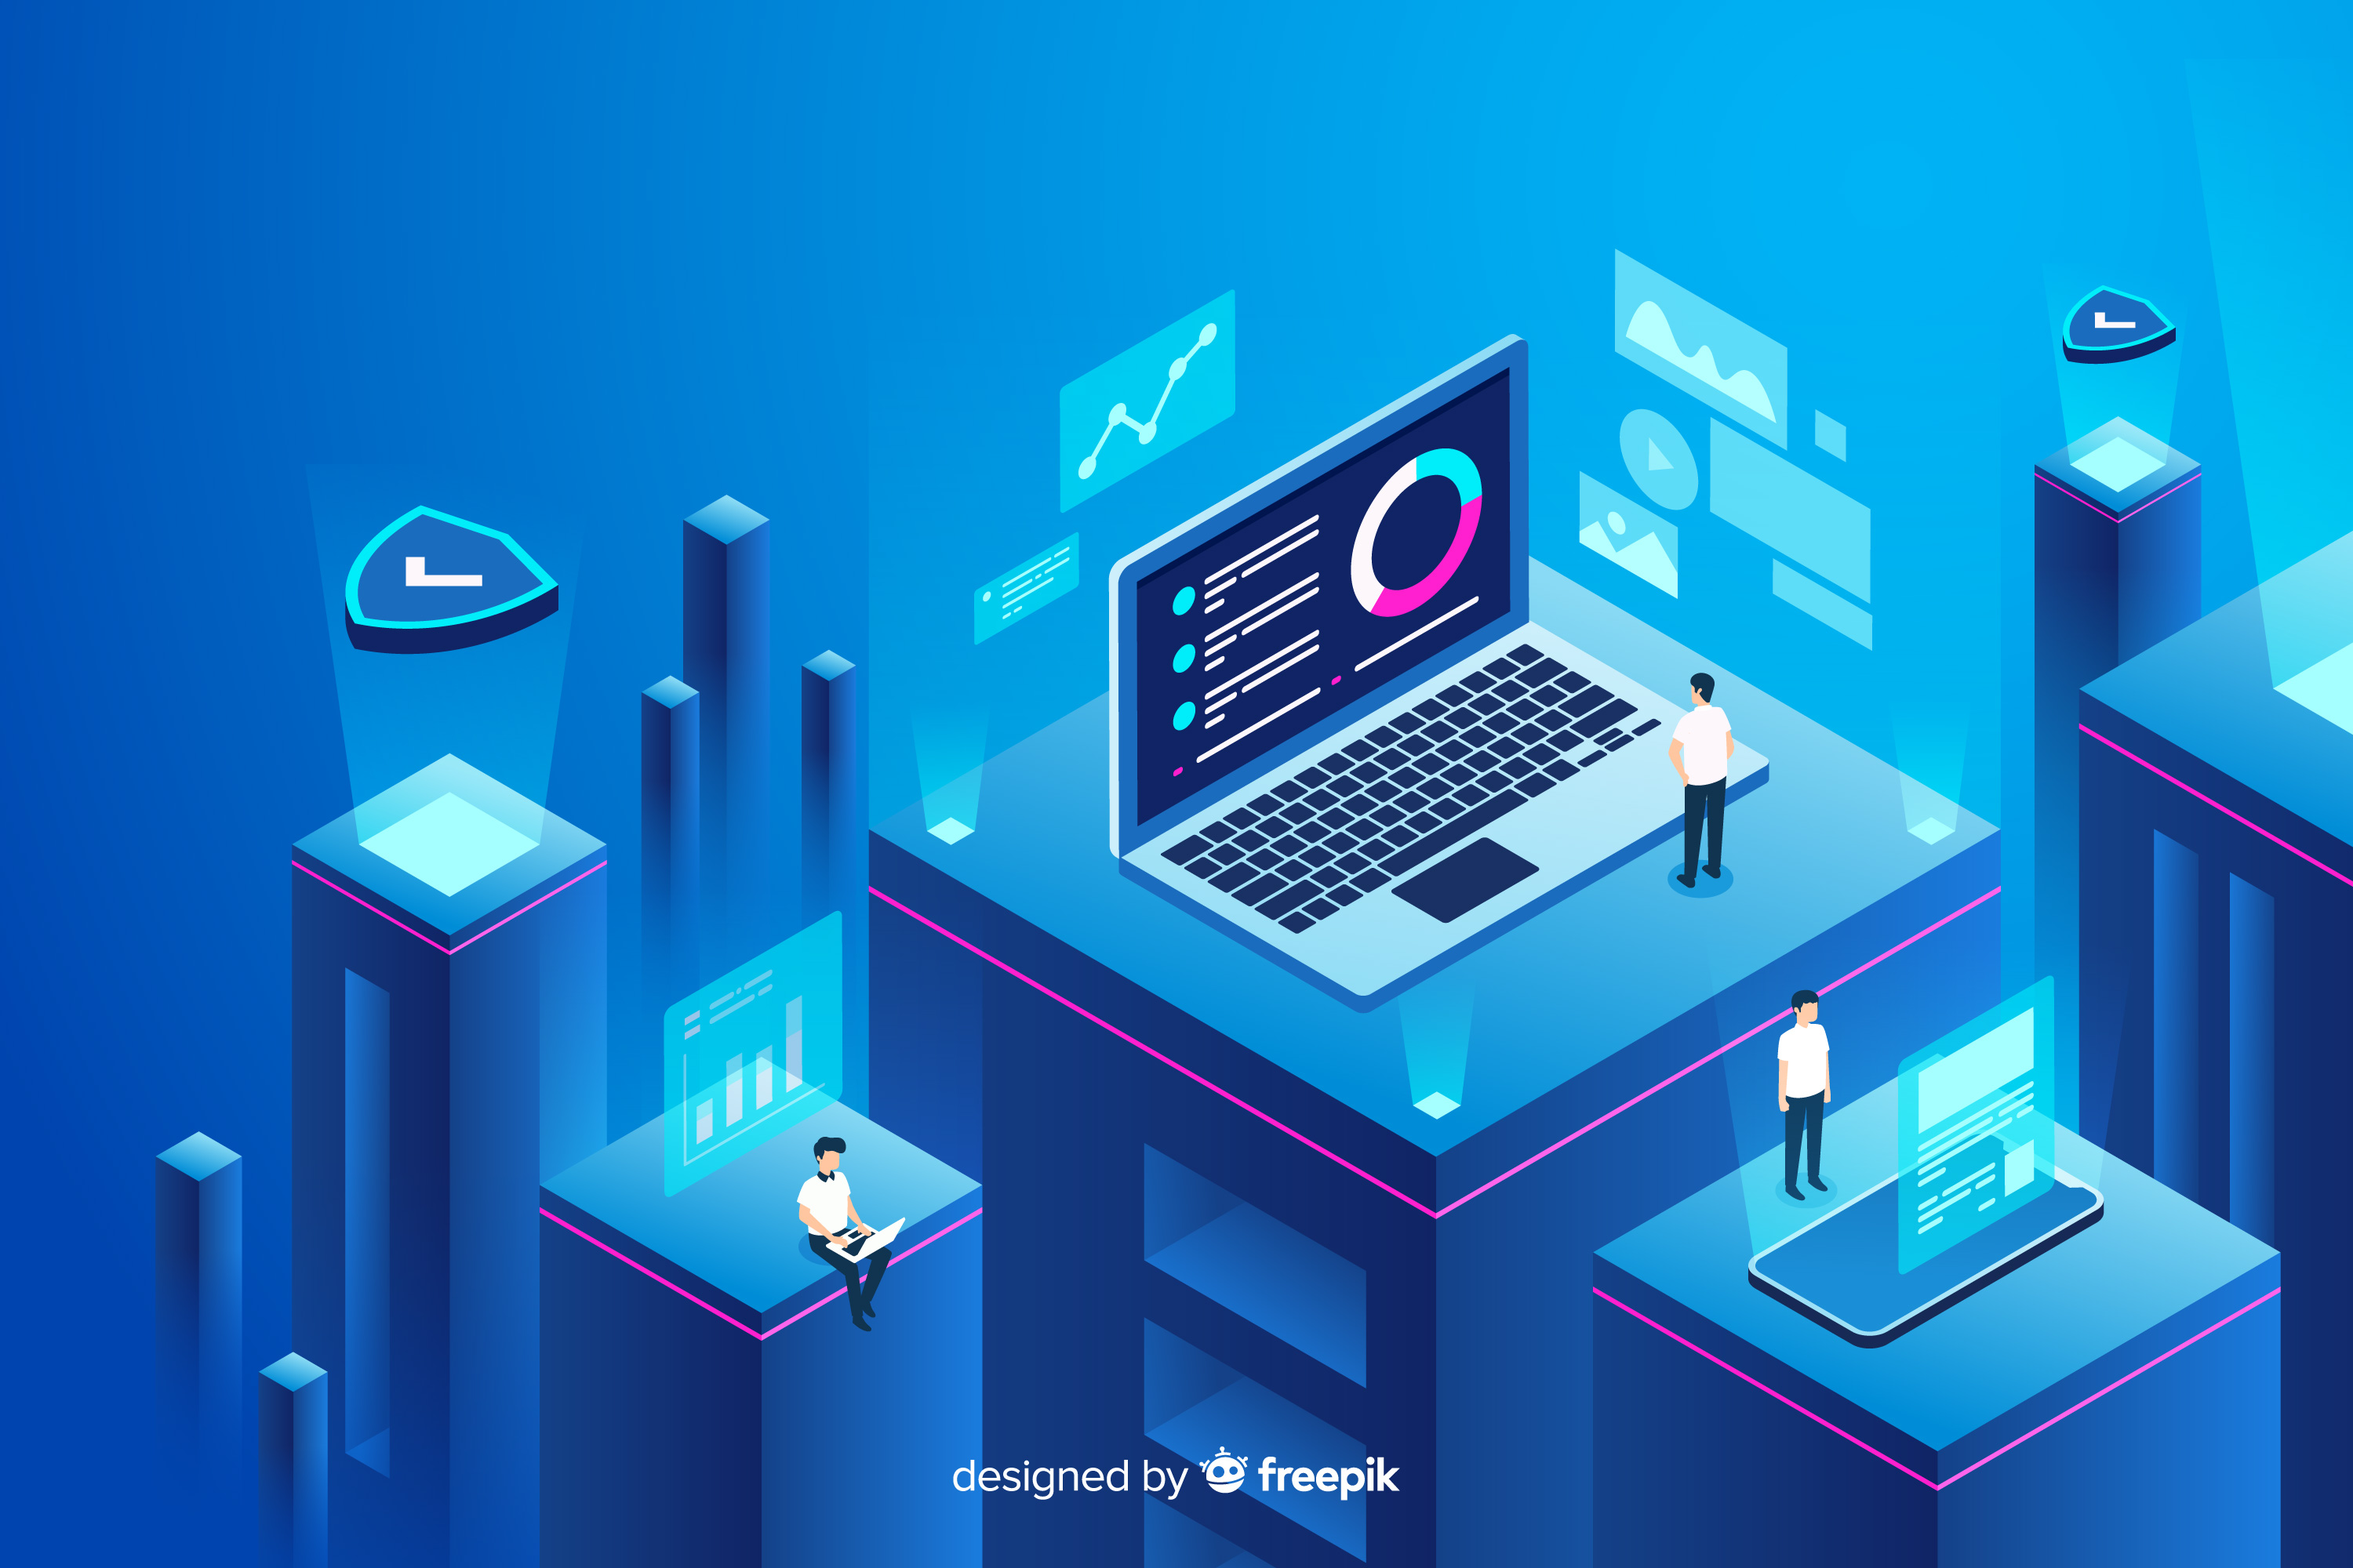
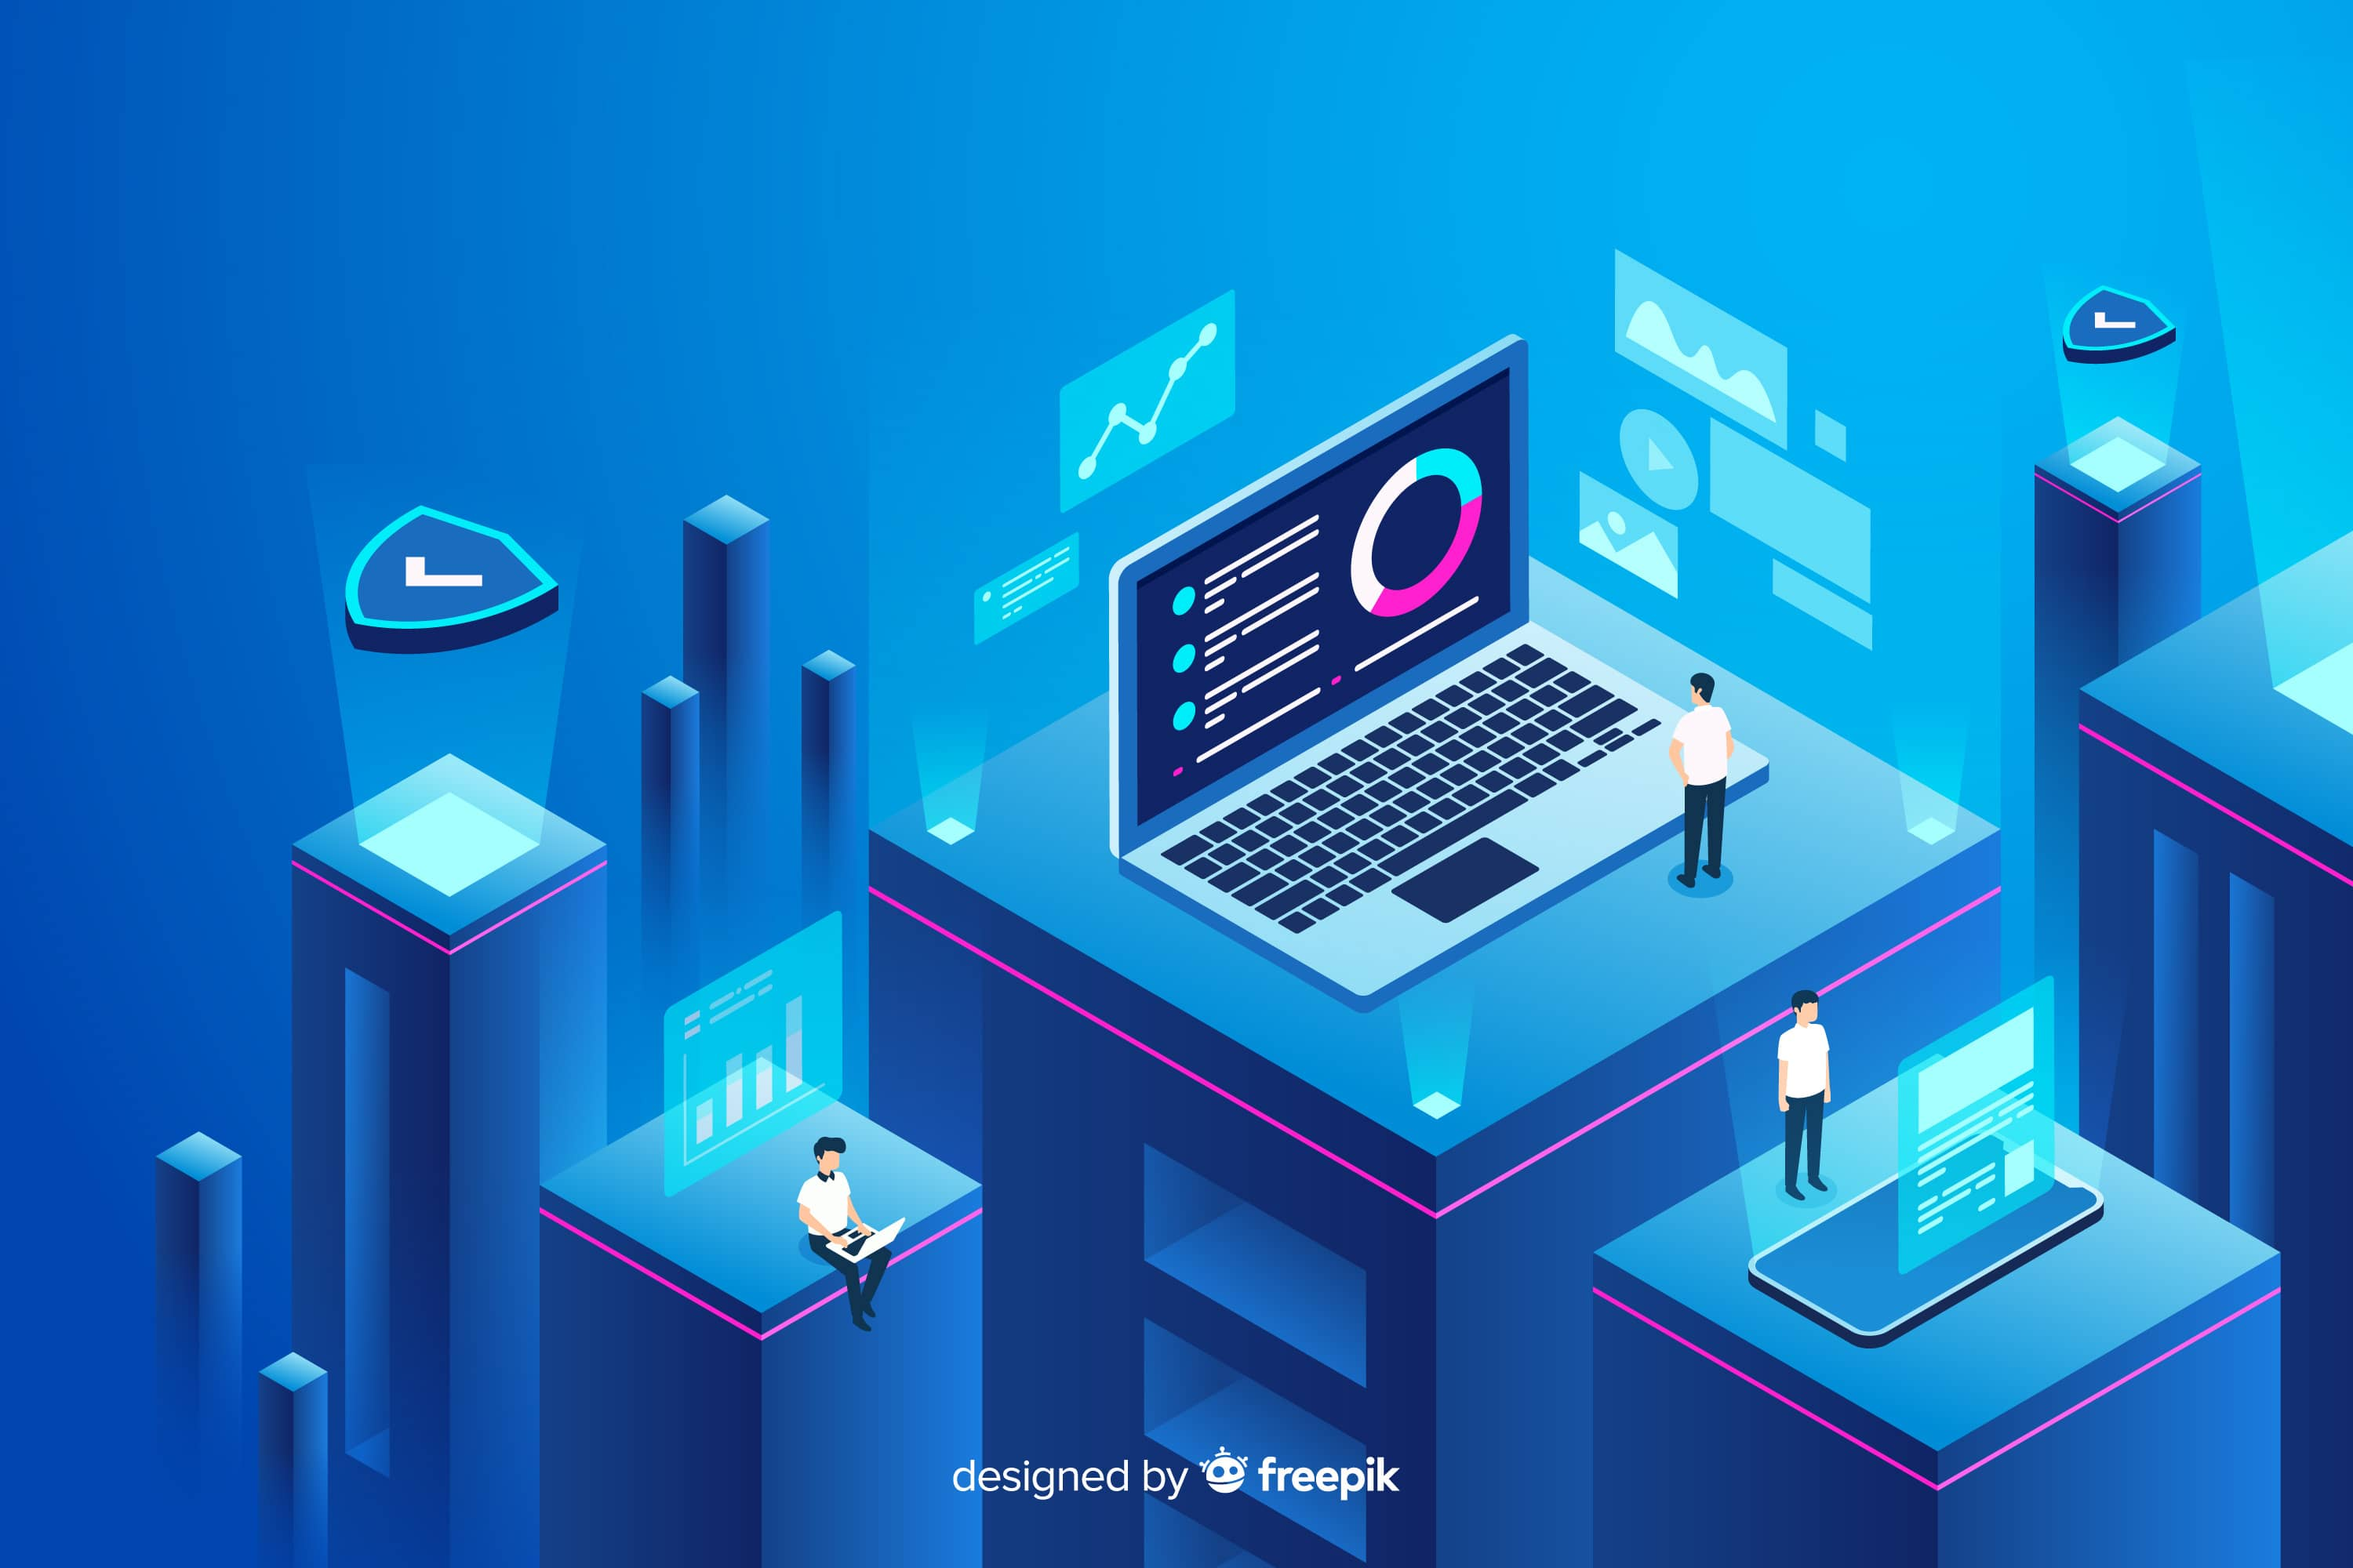
210803 Pricing page 구현

Changed region(s): [[0.496, 0.93, 0.558, 0.961], [0.341, 0.775, 0.403, 0.806], [0.403, 0.93, 0.434, 0.961]]

diff --git a/src/views/EN/PricingView.vue b/src/views/EN/PricingView.vue
@@ -1,21 +1,151 @@
 <template>
-  <div class="pricing-wrapper"></div>
+  <section class="section-pricing">
+    <div class="pricing-wrapper">
+      <div class="pricing-title">Pricing</div>
+      <div class="pricing-subtitle">Subscription Plans</div>
+      <div class="pricing-content-wrapper">
+        <div class="pricing-content">
+          <h1 class="content-title">BASIC</h1>
+          <div class="content-pricing">Coming Soon</div>
+          <ul class="content-detail">
+            <li>
+              Parcel, Zoning code, Demographic data with comparing
+              functionbetween different area.
+            </li>
+            <li>
+              2D map layers including zoning, building height, opportunity zone
+              etc.
+            </li>
+            <li>
+              AI Engine providing 1000+ alternatives Architectural Drawing with
+              detailed design & 3D modeling for feasibility study for each
+              development project
+            </li>
+            <li>
+              CAD File / solution analysis excel file (including project
+              summary, rent analysis, cash flow analysis) download.
+            </li>
+          </ul>
+        </div>
+        <div class="pricing-content">
+          <h1 class="content-title">PREMIUM</h1>
+          <div class="content-pricing">Coming Soon</div>
+          <ul class="content-detail">
+            <li>Everything in basic plan</li>
+            <li>
+              Zenerate™ AI Engine providing 50,000+ alternatives Architectural
+              Drawing with detailed design & 3D modeling for feasibility study
+              for each development project
+            </li>
+            <li>Parking and Retail layout</li>
+            <li>
+              Zenerate™ AI Engine predicting rent price based on data for
+              residential units.
+            </li>
+          </ul>
+        </div>
+        <div class="pricing-content">
+          <h1 class="content-title">CONSULTING</h1>
+          <div
+            class="content-pricing hover-pointer"
+            @click="router.push(`/contact`)"
+          >
+            Contact Us
+          </div>
+          <ul class="content-detail">
+            <li>Everything in premium plan</li>
+            <li>
+              Customize service depending on customer's requirement including
+              design details, construction limitation, cash flow
+            </li>
+          </ul>
+        </div>
+      </div>
+    </div>
+  </section>
 </template>
 <script lang="ts" setup>
-import { reactive, ref, onMounted, computed } from 'vue'
+import { onMounted, computed } from 'vue'
 import Store from '/Store/index'
-import ApiService from '/Services/api'
-import Validation from '/Utils/Validation'
-import { useRoute } from 'vue-router'
+
+import { useRouter } from 'vue-router'
 
 const fullpage = computed(() => Store.state.root.FullPage)
+const router = useRouter()
 onMounted(() => {
   fullpage.value.destroy()
-  const route = useRoute()
 })
 </script>
-<style lang="scss">
-.pricing-wrapper {
-  height: 800px;
+<style lang="scss" scoped>
+.section-pricing {
+  background-image: url('/en/img/pricing_placeholder.webp');
+  background-size: cover;
+  background-position: center;
+
+  height: 100vh;
+  min-height: 100%;
+  &::before {
+    content: '';
+    opacity: 0.6;
+    position: absolute;
+    top: 0px;
+    left: 0px;
+    right: 0px;
+    bottom: 0px;
+    background-color: #ffffff;
+  }
+  .pricing-wrapper {
+    height: 100%;
+    width: 1600px;
+    position: relative;
+    margin: auto;
+    padding: 100px 96px;
+    .pricing-title {
+      padding-top: 70px;
+      text-align: center;
+      @include bold(16);
+      line-height: 40px;
+      color: $main;
+    }
+    .pricing-subtitle {
+      text-align: center;
+      @include bold(26);
+      line-height: 40px;
+    }
+    .pricing-content-wrapper {
+      padding-top: 48px;
+      @include flex($justify: space-around);
+      .pricing-content {
+        width: 420px;
+        height: 500px;
+        box-shadow: 1px 1px 10px 0px rgba($black-1, 0.2);
+        border-radius: 20px;
+        background-color: white;
+        &:hover {
+          box-shadow: 0 0 0 3px $main;
+        }
+        .content-title {
+          text-align: center;
+          @include bold(18);
+          margin: 24px 0;
+        }
+        .content-pricing {
+          text-align: center;
+          margin-bottom: 12px;
+          color: $main;
+          @include bold(32);
+        }
+        .content-detail {
+          padding: 0px 30px;
+          li {
+            text-align: center;
+            padding: 20px 0px;
+            @include medium(14);
+            border-bottom: 1px solid rgba($black-1, 0.2);
+          }
+        }
+      }
+    }
+  }
 }
 </style>

diff --git a/src/views/EN/CareerView.vue b/src/views/EN/CareerView.vue
@@ -6,7 +6,7 @@
           <p class="main-title">Career</p>
           <div class="main-sub-title">
             <span>Your future with</span>
-            <img src="" data-src="/img/logo.png" alt="" />
+            <img src="" data-src="/img/logo.webp" alt="" />
           </div>
           <p class="main-content">
             Join Zenerate as we innovate architectural planning and improve
@@ -38,7 +38,7 @@
           <p class="hero-title">COMPANY CULTURE AND VALUES</p>
           <div class="hero-sub-title">
             <span>Your life with</span>
-            <img src="" data-src="/img/logo.png" alt="" />
+            <img src="" data-src="/img/logo.webp" alt="" />
           </div>
           <p class="hero-content">
             At Zenerate, placeholder (our unique group of professionals come
@@ -79,13 +79,18 @@
           </div>
           <div class="list-wrapper">
             <div class="list-image">
-              <img src="" data-src="/img/career_img.jpg" alt="" />
+              <img src="" data-src='/en/img/career_content.webp' alt="" />
             </div>
             <div class="list-items">
               <div class="career-list">
                 <div class="career-item">
                   <div class="item-date">2021. 00. 00 ~ 2021. 00. 00</div>
-                  <div class="item-title hover-pointer" @click="[router.push(`/career/strategic-account-executive`) ]">
+                  <div
+                    class="item-title hover-pointer"
+                    @click="
+                      ;[router.push(`/career/strategic-account-executive`)]
+                    "
+                  >
                     STRATEGIC ACCOUNT EXECUTIVE
                     <div class="arrow-right"></div>
                   </div>
@@ -94,7 +99,9 @@
                   <div class="item-date">2021. 00. 00 ~ 2021. 00. 00</div>
                   <div
                     class="item-title hover-pointer"
-                    @click="[router.push(`/career/business-development-manager`) ]"
+                    @click="
+                      ;[router.push(`/career/business-development-manager`)]
+                    "
                   >
                     BUSINESS DEVELOPMENT MANAGER
                     <div class="arrow-right"></div>
@@ -104,7 +111,13 @@
                   <div class="item-date">2021. 00. 00 ~ 2021. 00. 00</div>
                   <div
                     class="item-title hover-pointer"
-                    @click="[router.push(`/career/business-development-marketing-intern`) ]"
+                    @click="
+                      ;[
+                        router.push(
+                          `/career/business-development-marketing-intern`
+                        ),
+                      ]
+                    "
                   >
                     BUSINESS DEVELOPMENT & MARKETING INTERN
                     <div class="arrow-right"></div>
@@ -116,8 +129,8 @@
         </div>
       </div>
       <div class="section section-footer fp-auto-height">
-      <Footer></Footer>
-    </div>
+        <Footer></Footer>
+      </div>
     </div>
   </section>
 </template>
@@ -146,8 +159,19 @@ onMounted(() => {
 </script>
 <style lang="scss" scoped>
 .section-main {
-  background-image: url('/en/img/career_main.jpg');
+  background-image: url('/en/img/career_main.webp');
   background-size: cover;
+
+  &::before {
+    content: '';
+    opacity: 0.5;
+    position: absolute;
+    top: 0px;
+    left: 0px;
+    right: 0px;
+    bottom: 0px;
+    background-color: #000;
+  }
 
   .main-wrapper {
     // height: 100%;
@@ -196,9 +220,18 @@ onMounted(() => {
   }
 }
 .section-hero {
-  background-image: url('/en/img/career_hero.jpg');
+  background-image: url('/en/img/career_hero.webp');
   background-size: cover;
-
+  &::before {
+    content: '';
+    opacity: 0.5;
+    position: absolute;
+    top: 0px;
+    left: 0px;
+    right: 0px;
+    bottom: 0px;
+    background-color: #000;
+  }
   .hero-wrapper {
     height: 750px;
     // height: calc(100% - 100px);
@@ -318,11 +351,10 @@ onMounted(() => {
         }
       }
     }
-    
   }
-  &.active  .content-list-wrapper {
-      height: 100%;
-      padding-top: 150px;
-    }
+  &.active .content-list-wrapper {
+    height: 100%;
+    padding-top: 150px;
+  }
 }
 </style>

diff --git a/src/components/EN/CareerContent.vue b/src/components/EN/CareerContent.vue
@@ -1,7 +1,10 @@
 <template>
   <div class="career-content-wrapper">
     <!-- STRATEGIC ACCOUNT EXECUTIVE -->
-    <div class="career-content" v-if="$route.params.id==='strategic-account-executive'">
+    <div
+      class="career-content"
+      v-if="$route.params.id === 'strategic-account-executive'"
+    >
       <div class="career-content-title">
         <span>STRATEGIC ACCOUNT EXECUTIVE</span>
         <!-- <button @click=";[(nowId = -1), onSelect(nowId)]">지원하기</button> -->
@@ -98,10 +101,7 @@
         </ul>
       </div>
 
-      <button
-        class="back-button"
-        @click=";[router.push('/career')]"
-      >
+      <button class="back-button" @click=";[router.push('/career')]">
         <span>BACK</span>
         <svg
           width="122"
@@ -120,7 +120,10 @@
       </button>
     </div>
     <!-- BUSINESS DEVELOPMENT MANAGER -->
-    <div class="career-content" v-if="$route.params.id==='business-development-manager'">
+    <div
+      class="career-content"
+      v-if="$route.params.id === 'business-development-manager'"
+    >
       <div class="career-content-title">
         <span>BUSINESS DEVELOPMENT MANAGER</span>
         <!-- <button @click=";[(nowId = -1), onSelect(nowId)]">지원하기</button> -->
@@ -247,7 +250,10 @@
       </button>
     </div>
     <!-- BUSINESS DEVELOPMENT & MARKETING INTERN -->
-    <div class="career-content" v-if="$route.params.id==='business-development-marketing-intern'">
+    <div
+      class="career-content"
+      v-if="$route.params.id === 'business-development-marketing-intern'"
+    >
       <div class="career-content-title">
         <span>BUSINESS DEVELOPMENT & MARKETING INTERN</span>
         <!-- <button @click=";[(nowId = -1), onSelect(nowId)]">지원하기</button> -->
@@ -344,7 +350,10 @@
           <li>Send resume and cover to sjoo@zenerate.ai</li>
         </ul>
       </div>
-      <button class="back-button hover-pointer" @click=";[router.push('/career')]">
+      <button
+        class="back-button hover-pointer"
+        @click=";[router.push('/career')]"
+      >
         <a href="#firstPage"> <span>BACK</span></a>
         <svg
           width="122"
@@ -372,10 +381,10 @@ const fp = computed(() => Store.state.root.FullPage)
 import { useRouter } from 'vue-router'
 const router = useRouter()
 onMounted(() => {
-  fp.value.destroy();
+  fp.value.destroy()
   // fp.value.init('#fullpage', {
   //   // scrollOverflow: true,
-    
+
   // })
 })
 const emit = defineEmit(['onSelect'])
